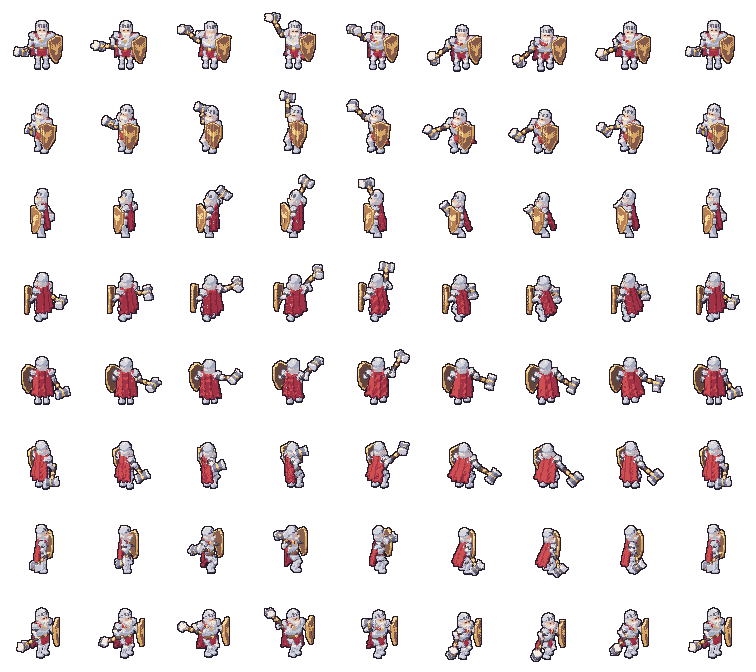
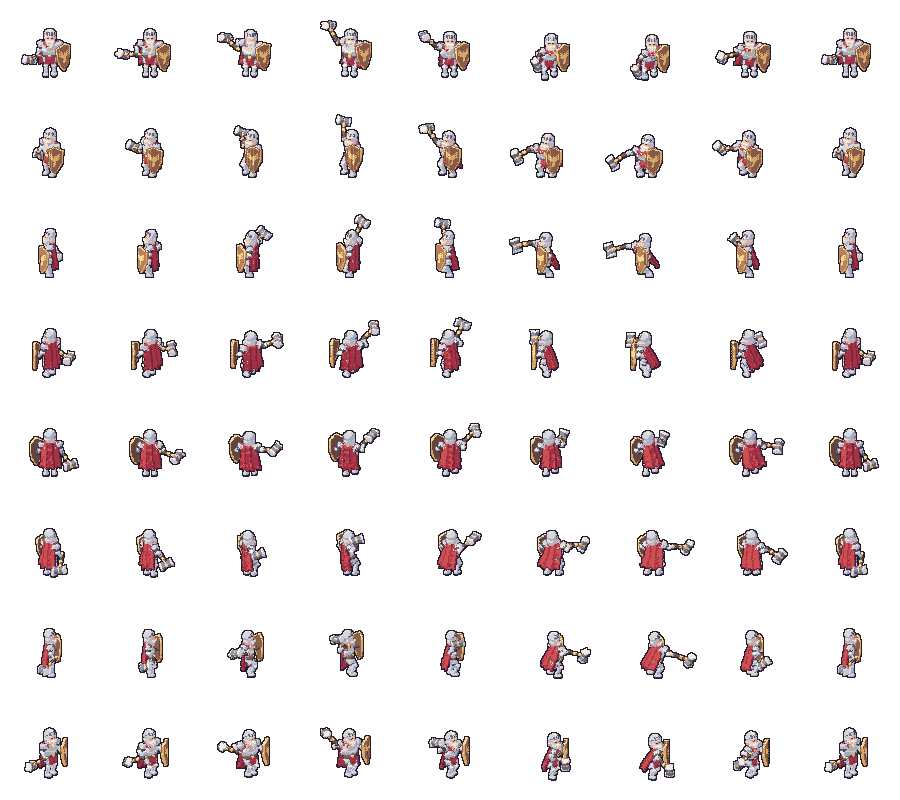
Drive Gard's hammer strike forward through impact
Rebake all eight directions and the impact event. Preserve the wind-up and timing, and document the follow-through with synchronized sprite and trajectory comparisons.

diff --git a/docs/assets/gard/preview.js b/docs/assets/gard/preview.js
@@ -102,12 +102,12 @@ window.spriteStackLayouts[new URL(".", document.currentScript.src).href] = {
       ],
       "columns": 9,
       "cell": [
-        84,
-        84
+        100,
+        100
       ],
       "anchor": [
-        42,
-        67
+        50,
+        75
       ],
       "fps": 10,
       "durations_ms": [
@@ -128,8 +128,8 @@ window.spriteStackLayouts[new URL(".", document.currentScript.src).href] = {
         "high hold",
         "downswing",
         "impact",
-        "settle",
-        "lift clear",
+        "drive through",
+        "recover",
         "guard"
       ]
     }

diff --git a/research/adventurers/gard-hammer/compare.py b/research/adventurers/gard-hammer/compare.py
@@ -1,0 +1,128 @@
+"""Build matched sprite comparisons and export the baked rig markers in model units."""
+
+import argparse
+import csv
+import json
+from pathlib import Path
+
+from PIL import Image, ImageDraw, ImageFont
+
+
+PAPER = "#f5f2e9"
+FLOOR = "#afb9a7"
+INK = "#293b35"
+FONT = ImageFont.load_default(size=15)
+PHASES = ("Wind-up", "Swing", "Impact", "Follow-through")
+MARKERS = ("hammer_head", "hand_R", "elbow_R", "shoulder_R", "pelvis", "toe_R", "toe_L")
+
+
+class Bake:
+    def __init__(self, path):
+        self.layout = json.loads((path / "metadata.json").read_bytes())["animations"]["attack"]
+        self.joints = json.loads((path / "joints.json").read_bytes())["attack"]
+        with Image.open(path / "attack.png") as sheet:
+            self.sheet = sheet.convert("RGBA")
+
+    def tile(self, row, frame, extent, anchor):
+        size, height = self.layout["cell"]
+        region = self.sheet.crop((frame*size, row*height, (frame+1)*size, (row+1)*height))
+        ax, ay = self.layout["anchor"]
+        panel = Image.new("RGB", extent, FLOOR)
+        panel.paste(region, (anchor[0]-ax, anchor[1]-ay), region)
+        return panel
+
+
+def sprite_comparisons(bakes, out):
+    old, new = bakes
+    rows = new.layout["rows"]
+    times = new.layout["durations_ms"]
+    if rows != old.layout["rows"] or times != old.layout["durations_ms"]:
+        raise ValueError("synchronized comparison needs matching direction order and frame durations")
+    w, h = new.layout["cell"]
+    anchor = new.layout["anchor"]
+    frames = []
+    for frame in range(len(times)):
+        page = Image.new("RGB", (80+len(rows)*w, 28+2*h), PAPER)
+        draw = ImageDraw.Draw(page)
+        for row, direction in enumerate(rows):
+            x = 80 + w*row
+            draw.text((x+w//2, 14), direction, anchor="mm", fill=INK, font=FONT)
+            for version, bake in enumerate(bakes):
+                page.paste(bake.tile(row, frame, (w,h), anchor), (x,28+version*h))
+        for version, name in enumerate(("Before", "After")):
+            draw.text((12,28+h//2+version*h), name, anchor="lm", fill=INK, font=FONT)
+        frames.append(page)
+    frames[0].save(out/"comparison.gif", save_all=True, append_images=frames[1:],
+                   loop=0, duration=times, disposal=1)
+
+    # Fixed 2x magnification and one anchor even for the shorter original cell.
+    tile_w, tile_h = w*2, 138
+    gutter = 104
+    page = Image.new("RGB", (gutter+4*(tile_w+2), 40+3*(2*tile_h+10)), PAPER)
+    draw = ImageDraw.Draw(page)
+    for col, name in enumerate(PHASES):
+        draw.text((gutter+col*(tile_w+2)+tile_w//2,20), f"F{col+4}  {name}",
+                  anchor="mm", fill=INK, font=FONT)
+    for group, direction in enumerate(("E", "S", "NW")):
+        for version, bake in enumerate(bakes):
+            y = 40 + group*(2*tile_h+10) + version*(tile_h+2)
+            draw.text((10,y+tile_h//2), direction+" / "+("Before","After")[version],
+                      anchor="lm", fill=INK, font=FONT)
+            for col in range(4):
+                tile = bake.tile(rows.index(direction), col+3, (w,tile_h//2), (w//2,63))
+                page.paste(tile.resize((tile_w,tile_h), Image.Resampling.NEAREST), (gutter+col*(tile_w+2),y))
+    page.save(out/"poses.png", optimize=True)
+
+
+def trajectory(bakes, out):
+    with (out/"trajectory.csv").open("w", newline="", encoding="utf-8") as stream:
+        writer = csv.writer(stream)
+        writer.writerow(["version","frame","start_ms"] + [f"{marker}_{axis}" for marker in MARKERS for axis in "xyz"])
+        for name, bake in zip(("before","after"), bakes):
+            ms = 0
+            for frame, joints in enumerate(bake.joints):
+                writer.writerow([name, frame+1, ms] + [round(v,6) for marker in MARKERS for v in joints[marker]])
+                ms += bake.layout["durations_ms"][frame]
+
+    page = Image.new("RGB", (840,295), PAPER)
+    draw = ImageDraw.Draw(page)
+    for panel, (label, axis, bottom) in enumerate((("Side  /  height Z",2,5), ("Top  /  lateral X",0,-25))):
+        left, floor = 54+panel*420, 235
+        def point(y, other):
+            return left+(y+10)*8, floor-(other-bottom)*6
+        draw.text((left,12), label, font=FONT, fill=INK)
+        for y in (-10,0,10,20,30):
+            x, _ = point(y,bottom)
+            draw.line((x,48,x,floor),fill="#d5d7ca")
+            draw.text((x,floor+5),str(y),anchor="mt",fill=INK)
+        for height in range(bottom,bottom+31,5):
+            _, sy = point(0,height)
+            draw.text((left-10,sy),str(height),anchor="rm",fill=INK)
+            draw.line((left,sy,left+320,sy),fill="#d5d7ca")
+        for bake, color in zip(bakes, ("#8b6354","#236965")):
+            markers = [j["hammer_head"] for j in bake.joints[3:7]]
+            coords = [point(v[1],v[axis]) for v in markers]
+            draw.line(coords, fill=color, width=3)
+            for index,(x,y) in enumerate(coords):
+                draw.ellipse((x-3,y-3,x+3,y+3),fill=color)
+                if bake is bakes[1]:
+                    draw.text((x+3,y-14), f"F{index+4}", fill=color)
+                elif index == 2:
+                    draw.text((x+7,y-1), "F6", fill=color)
+                elif index == 3:
+                    draw.text((x-16,y+6), "F7", fill=color)
+        draw.text((left+160,264),"Forward +Y  (model units)",anchor="mm",fill=INK,font=FONT)
+    draw.text((222,13),"Before",fill="#8b6354",font=FONT)
+    draw.text((287,13),"After",fill="#236965",font=FONT)
+    page.save(out/"trajectory.png", optimize=True)
+
+
+if __name__ == "__main__":
+    parser = argparse.ArgumentParser(description=__doc__)
+    for name in ("before","after","out"):
+        parser.add_argument(name,type=Path)
+    args = parser.parse_args()
+    args.out.mkdir(parents=True,exist_ok=True)
+    pair = (Bake(args.before),Bake(args.after))
+    sprite_comparisons(pair,args.out)
+    trajectory(pair,args.out)

diff --git a/research/adventurers/gard-hammer/README.md b/research/adventurers/gard-hammer/README.md
@@ -1,0 +1,74 @@
+# ガルドの重打撃を前へ押し込む
+
+F4の振りかぶりから腰を返し、F6で前方へ打ち込み、F7で右肘を伸ばしてさらに押し込む9コマの単発攻撃。左右から見ると、F6の槌頭は胸より約28 px前にあり、F7でさらに約6 px進む。9コマの表示時間、全長960 ms、発動時刻540 msを引き継いだ。[隊列プレビュー](../../../docs/party.html) · [攻撃PNG](../../../docs/assets/gard/attack.png) · [攻撃GIF](../../../docs/assets/gard/attack.gif) · [イベントJSON](../../../docs/assets/gard/attack.json)
+
+[8方向の変更前後を同期再生するGIF](comparison.gif)は上段が変更前、下段が変更後。足元を合わせ、原寸・等速で同時に再生する。変更前の公開GIFは `4f77259` のファイルをそのまま[基準GIF](before.gif)として保存した。
+
+![東・南・北西から見たF4〜F7。各方向とも上段が変更前、下段が変更後](poses.png)
+
+## モデル空間での軌跡
+
+計測点はゲームイベントと同じ `hammer_head`（槌頭中心）。単位はモデル単位で、+Yが前、+Zが上、+Xが本人の左。下図は同じ4点を側面と上面に投影したもの。全9コマの時刻と槌頭・右手・肘・肩・腰・両つま先のXYZは[座標CSV](trajectory.csv)に記録した。
+
+![槌頭のF4〜F7の軌跡。横軸は前方向。左が高さ、右が左右方向](trajectory.png)
+
+| 測定 | 変更前 | 変更後 |
+| --- | ---: | ---: |
+| F5→F6の槌頭の前進量 | +2.225 | **+17.928** |
+| F5→F6の槌頭の高さ変化 | −19.848 | −12.657 |
+| F6→F7の槌頭の前進量 | −0.786 | **+3.982** |
+| F5→F7の槌頭の前進量 | +1.439 | **+21.910** |
+| F6の槌頭が右手より前に出る距離 | 4.183 | 10.346 |
+| F7の槌頭が右手より前に出る距離 | 3.097 | 10.128 |
+| F7の槌頭が胸より前に出る距離 | 6.524 | 21.773 |
+
+F4の槌頭は両版とも (−14.336, −8.331, 32.466)。F5では腰が前方に移り、胴の向きがF4の+27°から−4°に回る。F6の胴は−30°、前傾22°、F7では−37°、前傾26°。F6→F7で右肩が1.78、右手が4.20前進し、右肘の内角は79°から143°へ開く。F6で踏み込み足が着いたあとも腰は1.00前進する。F8では右肘を畳み、槌を身体の外側へ引きながら上体を起こす。F9は元の構えに一致する。[攻撃クリップ](../../../characters/gard/hammer-strike.json)
+
+`hammer_impact` はF6の開始時（0始まりの `frame = 5`）。新しいイベント位置は **(−8.501, 22.896, 17.671)**。F5からの実測変位を正規化した方向は (−0.155, +0.110, −0.982) から **(+0.358, +0.763, −0.538)** に変わった。8方向の変換済みベクトルはJSONの `direction_by_row` に収録した。
+
+## 原寸での観察
+
+隊列ページでガルドを単独表示し、1×・通常速度で8方向を再生した。F6とF7をコマ送りでも比較した。下表の数値は、手前の部位に隠れた部分を除く槌頭の金属材質の画素数。
+
+| 向き | F6 | F7 | 観察 |
+| --- | ---: | ---: | --- |
+| S | 99 | 96 | 画面左上から手前へ打ち込む。F7では右膝の手前まで槌頭が下がる。奥行き方向のため柄は短く見える。 |
+| SW | 99 | 92 | 盾の外へ斜めに振り下ろし、腕と柄が続く。 |
+| W | 101 | 102 | 槌頭が盾の前縁を越える。支持足を固定したまま次のコマでさらに左へ出る。 |
+| NW | 75 | 73 | 振りかぶりから盾の前側へ抜ける。打点で柄の一部が盾と重なり、金属の槌頭が上縁に見える。 |
+| N | 67 | 72 | 兜の脇に槌頭が残り、前傾とマントの動きで振り切りを追える。 |
+| NE | 95 | 87 | 赤いマントの外に腕と槌頭が出る。 |
+| E | 105 | 98 | 右手と柄が横に伸び、F6からF7の押し込みが最も追いやすい。 |
+| SE | 99 | 99 | 槌頭が盾の手前を通り、F7で低い打点に達する。 |
+
+試作ではNWのF8で槌頭の可視画素がゼロになった。復帰時に手首を外へ引き、槌頭を少し上げたことで同じコマに87 px残る。全72画像で槌頭・盾ともに可視。隊列の単発再生でF9から4コマ待機へ戻り、通常ギャラリーでも全8方向で待機復帰を確認した。実ゲームでの命中判定と入力応答は未検証。
+
+## 技術検証と回帰
+
+- `research.verify_attack` が全モード生成・攻撃単独生成の両方で通過。97姿勢で左右の手首・足首のIKと槌頭の経路を確認した。9コマの最小接触面数は右手と槌が22、左手と盾が11。F6・F7の踏み込み足のつま先は (−3.44, 6.42, 0)、支持足は (2.74, 1.43, 0)。両方の座標がこの区間で一致した。
+- 試作前後とも97姿勢で、槌全体の元ボクセル中心を盾・頭・胴・腰・反対の前腕／手・両大腿・両ブーツの部位格子と照合し、内部への入り込みは0。動くマントと槌の干渉検査も通過した。
+- ガルドの攻撃セルは **100×100、アンカー (50, 75)**。F7の前方到達に合わせて攻撃作業格子の+Y上限を32から38へ広げた。最小透明余白はW・Eの3 px。従来の84×84セルと足元をそろえて比較すると、F1〜F4・F9のRGBAは全方向で完全一致した。
+- ガルドの静止検証は33件、歩行は16件PASS。待機・歩行の検査も通過し、再生成した静止・待機・歩行の公開PNG・GIF・JSONは元ファイルとバイト単位で一致した。全モードと別出力先での単独攻撃ベイクについて、公開PNGのRGBA、GIF全コマと時間、JSONの内容を照合した。
+- リコ・セナは静止・待機・歩行・攻撃を再生成して公開素材と照合した。正式3体とFLEUR KNIGHT・CRIMSON BLADE・GOBLIN BRUTE・SKELETON GUARDも静止・歩行・攻撃の公開回帰を通過し、LARK・BRAMは保存済みの基準に一致した。FAIL・SKIPは0。従来からのWARNINGはMARENの部位の分離片1件、CRYSTAL MAGEの分離片4件と歩行SW・SEでの目の画素数変化。共通エンジンとリグの変更はない。
+
+## 再生成
+
+リポジトリのルートから実行する。比較用スクリプトはベイク済みのPNG・関節・メタデータを読み、同じ倍率・足元・時刻の図とCSVを出力する。
+
+~~~powershell
+$py = (Resolve-Path .\.venv\Scripts\python.exe).Path
+$run = Join-Path $PWD ('.phase1/gard-strike-' + [guid]::NewGuid())
+New-Item -ItemType Directory -Path $run | Out-Null
+git archive --format=zip --output "$run/basis.zip" 4f77259 characters/gard motions
+Expand-Archive -LiteralPath "$run/basis.zip" -DestinationPath "$run/basis"
+& $py -m spritestack --character "$run/basis/characters/gard/character.json" --modes attack --out "$run/before"
+$cfg = 'characters/gard/character.json'
+& $py -m spritestack --character $cfg --modes idle --out "$run/static"
+& $py -m spritestack --character $cfg --out "$run/after"
+& $py -m research.verify_character --character $cfg --out "$run/static"
+& $py -m research.verify_walk --character $cfg --out "$run/after"
+& $py -m research.verify_loops --character $cfg --out "$run/after" --published docs/assets/gard
+& $py -m research.export_loops --neutral "$run/static" --animated "$run/after" --out "$run/assets"
+& $py -m research.verify_attack --character $cfg --out "$run/after" --published docs/assets/gard
+& $py research/adventurers/gard-hammer/compare.py "$run/before" "$run/after" "$run/comparison"
+~~~

diff --git a/research/adventurers/ATTACKS.md b/research/adventurers/ATTACKS.md
@@ -4,11 +4,13 @@
 
 | キャラクター | クリップ | セル／足元アンカー | 総時間 | 発動（開始から） | 公開アセット |
 | --- | --- | --- | ---: | --- | --- |
-| ガルド | [重打撃](../../characters/gard/hammer-strike.json) | 84×84／(42, 67) | 960 ms | 540 ms・打撃 | [PNG](../../docs/assets/gard/attack.png) · [GIF](../../docs/assets/gard/attack.gif) · [JSON](../../docs/assets/gard/attack.json) |
+| ガルド | [重打撃](../../characters/gard/hammer-strike.json) | 100×100／(50, 75) | 960 ms | 540 ms・打撃 | [PNG](../../docs/assets/gard/attack.png) · [GIF](../../docs/assets/gard/attack.gif) · [JSON](../../docs/assets/gard/attack.json) |
 | リコ | [射撃](../../characters/rico/bow-shot.json) | 80×80／(40, 65) | 590 ms | 360 ms・離弦 | [PNG](../../docs/assets/rico/attack.png) · [GIF](../../docs/assets/rico/attack.gif) · [JSON](../../docs/assets/rico/attack.json) |
 | セナ | [氷魔法](../../characters/sena/frost-cast.json) | 100×100／(50, 75) | 1,000 ms | 580 ms・放出 | [PNG](../../docs/assets/sena/attack.png) · [GIF](../../docs/assets/sena/attack.gif) · [JSON](../../docs/assets/sena/attack.json) |
 
 ## ポーズと装備
+
+ガルドの現行版はF6で前方へ打ち込み、F7でさらに押し込む。以下の初版から変更した軌道・方向別の観察と数値は[ガルドの重打撃の改訂記録](gard-hammer/README.md)に掲載した。
 
 - **ガルド**　GOBLIN BRUTEの溜めと停止、MAREN・SKELETON GUARDの独立した盾腕を参考にした。左の盾を上げ、腰を引いて肩越しに槌頭を持ち上げる。4コマ目を190 ms保ち、5コマ目の50 msで腰を返す。打ち込んだ後の2コマは踏み出した足を同じ位置に置き、マントと肩が落ち着いてから槌を戻す。
 - **リコ**　AZURE RONINの短い発動と左右の腕に別々の役割を持たせる構成を参考にした。左手は弓を前へ、右手は矢筈を持って後方へ動く。5コマ目の照準から6コマ目の離弦へ40 msの発射像を挟み、右手が後ろへ抜ける。弓を下ろす間、矢筒と腰の鉤は身体に付いたまま。
@@ -33,6 +35,8 @@ PNGは各行が S / SW / W / NW / N / NE / E / SE、各列が時間順の9コマ
 広い軌道には `attack.cell` と `attack.posed_volume` を使う。初稿では全モードの格子原点を動かし、同じ関節姿勢でも歩行PNGの一部が変わった。攻撃だけ別の格子を選ぶ方式に変更した。3人の元モデル・待機・歩行クリップは従来のものを使う。
 
 ## 8方向の見え方
+
+この比較図と以下の初回検証値は3人の攻撃を揃えた時点（`4f77259`）の記録。現行ガルドの比較は[原寸GIF](gard-hammer/comparison.gif)と[改訂後の検証結果](gard-hammer/README.md)を参照。
 
 ![ガルド、リコ、セナの構え、溜めまたは照準、発動、NWでの発動、復帰完了](attack-poses.png)
 
